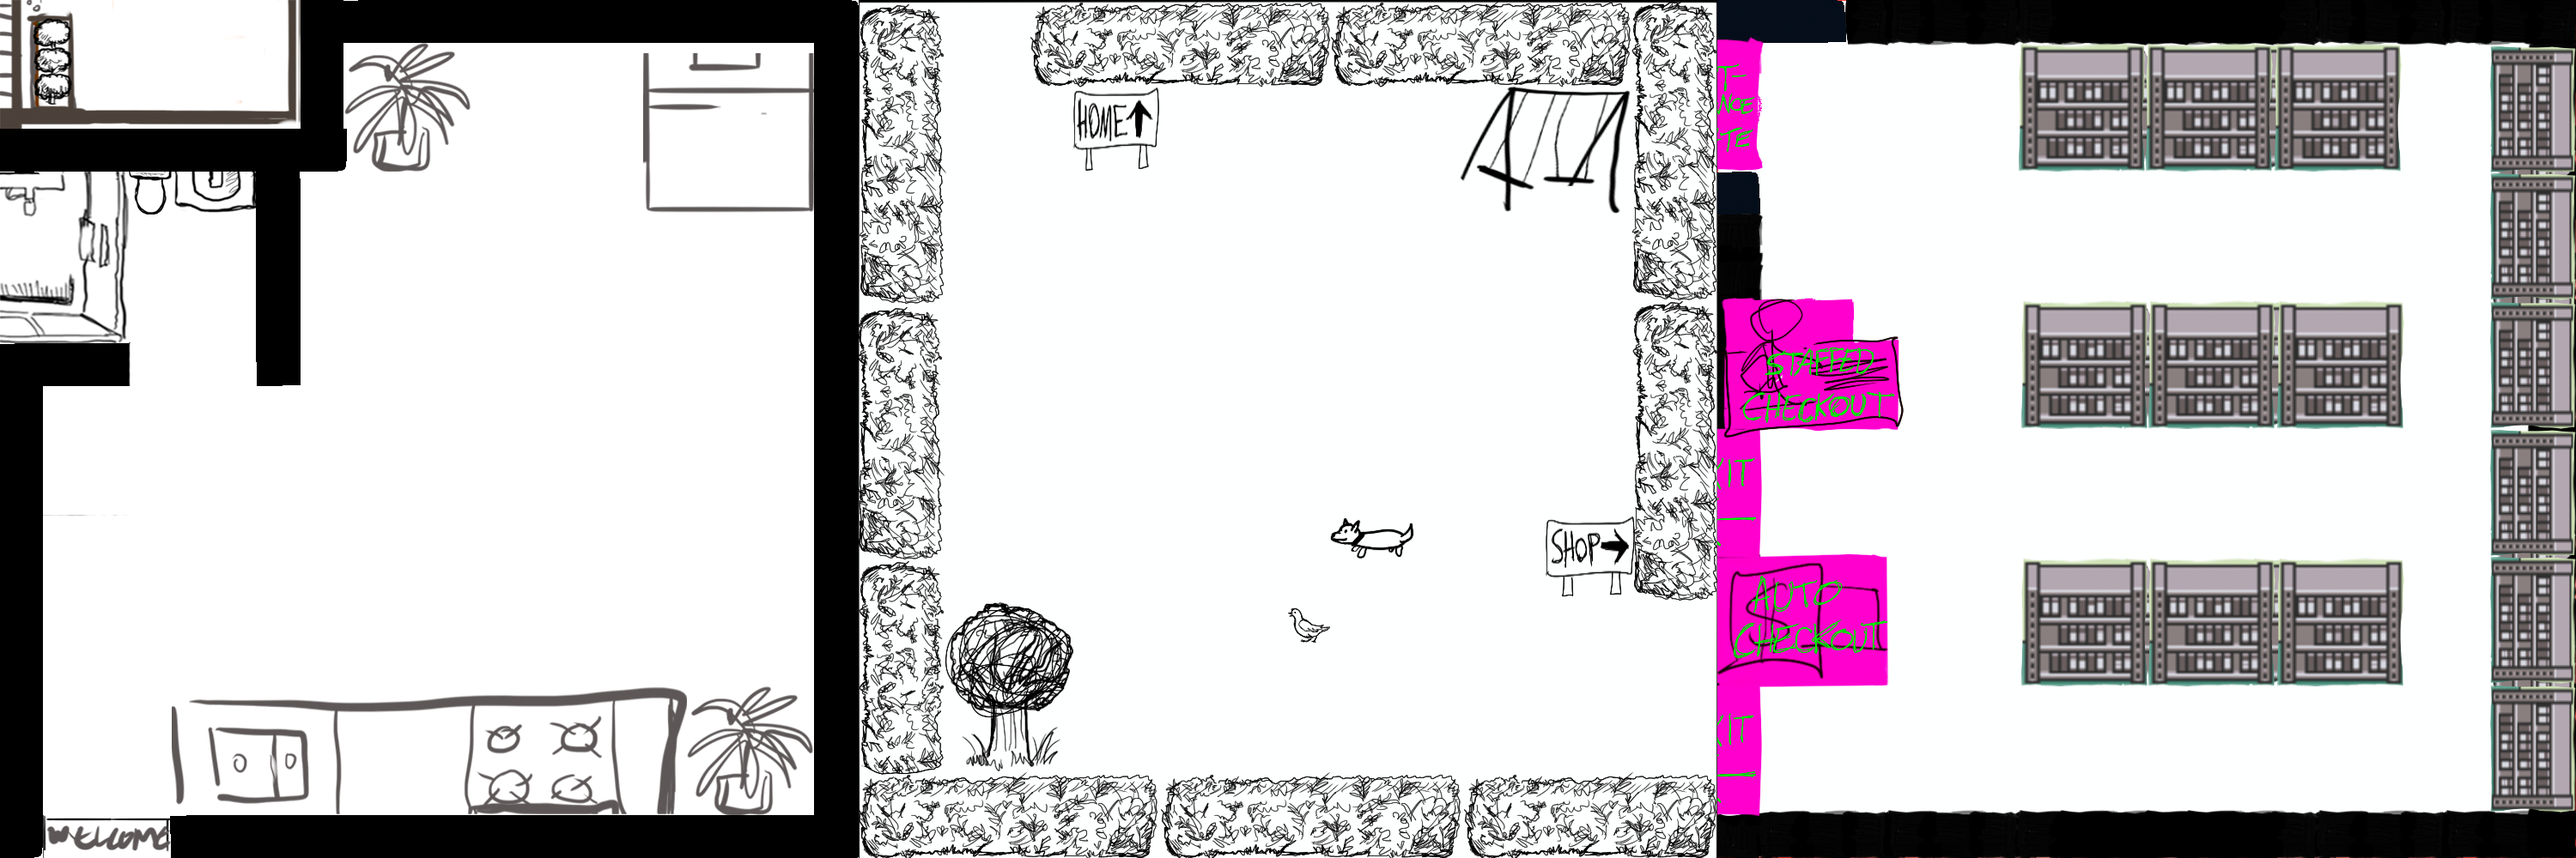
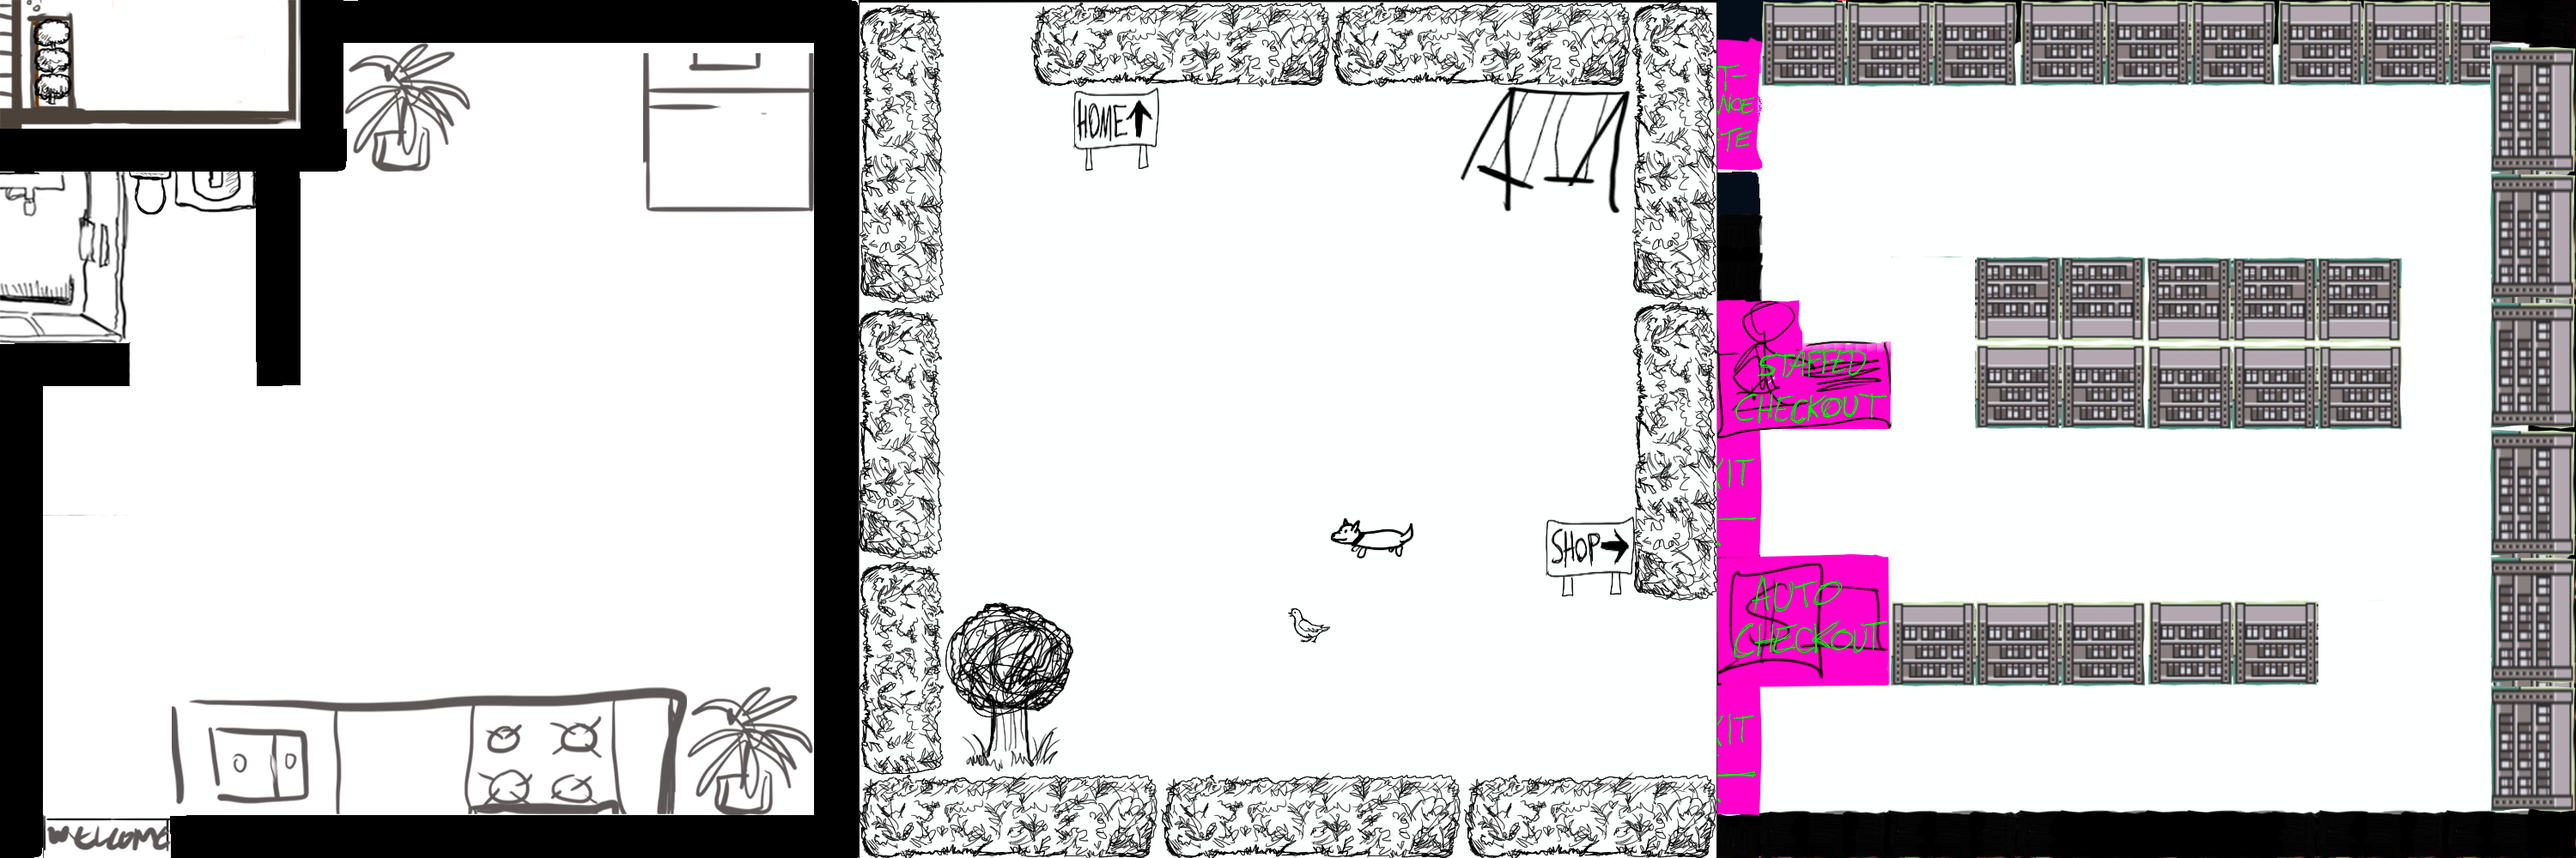
Finish blocking

Changed region(s): [[0.651, 0.279, 0.93, 0.527], [0.682, 0.0, 0.992, 0.217], [0.713, 0.651, 0.93, 0.806]]

diff --git a/src/environment.rs b/src/environment.rs
@@ -105,6 +105,8 @@ fn get_environment_collider_and_teleporters(
                 EnvironmentCollider::new(0, 4, 3, 5),
                 EnvironmentCollider::new(3, 4, 3, 1),
                 EnvironmentCollider::new(6, 4, 1, 5),
+                EnvironmentCollider::new(0, 8, 1, 11), // bottom left half of wall
+                EnvironmentCollider::new(4, 16, 16, 4), // bottom area
             ];
             let teleporters = vec![(
                 EnvironmentCollider::new(1, 19, 3, 1),
@@ -119,9 +121,10 @@ fn get_environment_collider_and_teleporters(
                 EnvironmentCollider::new(2, 18, 18, 2),
                 EnvironmentCollider::new(4, 0, 16, 2),
                 EnvironmentCollider::new(18, 2, 2, 12),
-                EnvironmentCollider::new(5, 2, 2, 2),  // sign
+                EnvironmentCollider::new(5, 2, 2, 2), // home sign
                 EnvironmentCollider::new(2, 14, 3, 4), // tree
-                EnvironmentCollider::new(15, 2, 4, 3), // swings
+                EnvironmentCollider::new(14, 2, 4, 3), // swings
+                EnvironmentCollider::new(16, 12, 2, 2), // shop sign
             ];
             let teleporters = vec![
                 (
@@ -138,7 +141,15 @@ fn get_environment_collider_and_teleporters(
         }
         Location::Shops => {
             let environment_colliders = vec![
-            // EnvironmentCollider::new(0, 15, 11, 4)
+                EnvironmentCollider::new(0, 0, 1, 20),   // far left wall
+                EnvironmentCollider::new(1, 0, 19, 2),   // top wall
+                EnvironmentCollider::new(1, 19, 19, 1),  // bottom wall
+                EnvironmentCollider::new(18, 1, 20, 18), // far right wall
+                EnvironmentCollider::new(6, 6, 10, 4),   // top isle
+                EnvironmentCollider::new(4, 14, 10, 2),  // bottom isle
+                EnvironmentCollider::new(1, 7, 1, 3),    // left of staffed checkout
+                EnvironmentCollider::new(2, 8, 2, 2),    // right of staffed checkout
+                EnvironmentCollider::new(1, 13, 3, 3),   // aut
             ];
             let teleporters = vec![
                 (
